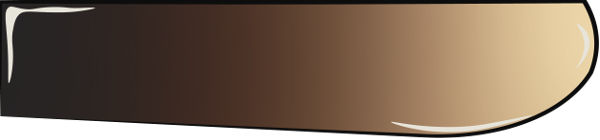
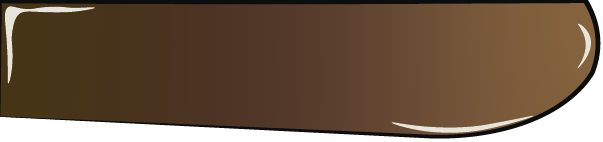
Updates Choose Player State

diff --git a/src/ChoosePlayerState.cpp b/src/ChoosePlayerState.cpp
@@ -8,7 +8,7 @@
 
 ChoosePlayerState::ChoosePlayerState() : State(){
   this->objectArray = std::vector<std::shared_ptr<GameObject>>();
-  this->currentOption = 0;
+  this->currentCharacter = 0;
 
   this->LoadAssets();
 }
@@ -18,8 +18,34 @@ ChoosePlayerState::~ChoosePlayerState() {
 
 void ChoosePlayerState::LoadAssets() {
   this->bg = new GameObject();
-  this->bg->AddComponent(new Sprite(*bg, "img/menu/title-bright.png"));
+  this->bg->AddComponent(new Sprite(*bg, "img/menu/choose-player.png"));
   this->AddObject(bg);
+
+  float leftXPosition = (Game::screenWidth/2) - 300;
+  float rightXPosition = (Game::screenWidth/2) + 300;
+  float yPosition = Game::screenHeight / 2;
+
+  auto go = new GameObject();
+  this->characters[VETERAN_OPTION] = new Sprite(*go, "img/veteran/idle.png", 15, STOP_SPRITE);
+  go->AddComponent(characters[VETERAN_OPTION]);
+  go->box.SetCenterPos(leftXPosition, yPosition);
+  this->AddObject(go);
+
+  go = new GameObject();
+  this->characters[TEACHER_OPTION] = new Sprite(*go, "img/teacher/idle.png", 25, STOP_SPRITE);
+  go->AddComponent(characters[TEACHER_OPTION]);
+  go->box.SetCenterPos(rightXPosition, yPosition);
+  this->AddObject(go);
+
+  auto text = new GameObject();
+  this->characterNames.push_back(new Text(*text, OPTIONS_FONT, OPTIONS_FONT_SIZE, Text::BLENDED, "VETERAN", WHITE));
+  text->box.SetCenterPos(leftXPosition, yPosition + 200);
+  // this->AddObject(text);
+
+  text = new GameObject();
+  this->characterNames.push_back(new Text(*text, OPTIONS_FONT, OPTIONS_FONT_SIZE, Text::BLENDED, "TEACHER", WHITE));
+  text->box.SetCenterPos(rightXPosition, yPosition + 200);
+  // this->AddObject(text);11
 
   GameObject *sound = new GameObject();
   sound = new GameObject();
@@ -35,7 +61,6 @@ void ChoosePlayerState::LoadAssets() {
 }
 
 void ChoosePlayerState::Update(float dt) {
-  printf("Curr opt: %d\n", currentOption);
   this->quitRequested = InputManager::GetInstance().QuitRequested();
 
 	if (InputManager::GetInstance().KeyPress(ESCAPE_KEY)) {
@@ -51,21 +76,27 @@ void ChoosePlayerState::Update(float dt) {
                       || InputManager::GetInstance().KeyPress(KEYPAD_ENTER_KEY)
                       || InputManager::GetInstance().KeyPress(SPACE_KEY);
 
-  if (pressedLeft && this->currentOption > VETERAN_OPTION) {
+  if (pressedLeft && this->currentCharacter > VETERAN_OPTION) {
     this->buttonSounds[CHANGE]->Play(1);
-    this->currentOption--;
+    this->currentCharacter--;
   }
 
-  if (pressedRight && this->currentOption < TEACHER_OPTION) {
+  if (pressedRight && this->currentCharacter < TEACHER_OPTION) {
     this->buttonSounds[CHANGE]->Play(1);
-    this->currentOption++;
+    this->currentCharacter++;
   }
+
+  int otherCharacter = currentCharacter == VETERAN_OPTION ? TEACHER_OPTION : VETERAN_OPTION;
+  this->characters[currentCharacter]->SetFrameTime(0.04);
+  this->characters[otherCharacter]->SetFrameTime(STOP_SPRITE);
+  this->characterNames[currentCharacter]->SetColor(SELECTED_OPTION);
+  this->characterNames[otherCharacter]->SetColor(NOT_SELECTED_OPTION);
 
   if (enterPressed) {
     this->buttonSounds[SELECTED]->Play(1);
 
     std::string character = "";
-    switch (this->currentOption) {
+    switch (this->currentCharacter) {
       case VETERAN_OPTION:
         character = "veteran";
         break;
@@ -86,6 +117,9 @@ void ChoosePlayerState::Update(float dt) {
 
 void ChoosePlayerState::Render() {
   this->RenderArray();
+  for (auto option : this->characterNames) {
+    option->Render();
+  }
 }
 
 void ChoosePlayerState::Start() {

diff --git a/include/ChoosePlayerState.h b/include/ChoosePlayerState.h
@@ -4,7 +4,9 @@
 #include "State.h"
 #include "GameObject.h"
 #include "Music.h"
+#include "Sprite.h"
 #include "Sound.h"
+#include "Text.h"
 
 #define VETERAN_OPTION 0
 #define TEACHER_OPTION 1
@@ -12,9 +14,11 @@
 
 class ChoosePlayerState : public State {
 private:
-  int currentOption;
+  int currentCharacter;
   Music music;
+  Sprite *characters[4];
   GameObject *bg;
+  std::vector<Text *> characterNames;
   std::vector<Sound *> buttonSounds;
 
 public:

diff --git a/src/Sprite.cpp b/src/Sprite.cpp
@@ -120,7 +120,7 @@ void Sprite::Update(float dt) {
   }
   this->timeElapsed += dt;
 
-  if (this->timeElapsed > this->frameTime) {
+  if (this->frameTime != STOP_SPRITE && this->timeElapsed > this->frameTime) {
     this->timeElapsed -= this->frameTime; // "Restarting" the counter
     if(this->currentFrame < this->frameCount -1)
       this->currentFrame++;

diff --git a/include/Sprite.h b/include/Sprite.h
@@ -7,6 +7,8 @@
 #include "Component.h"
 #include "Timer.h"
 #include <string>
+#define STOP_SPRITE -1
+
 
 class Sprite : public Component {
 private:
